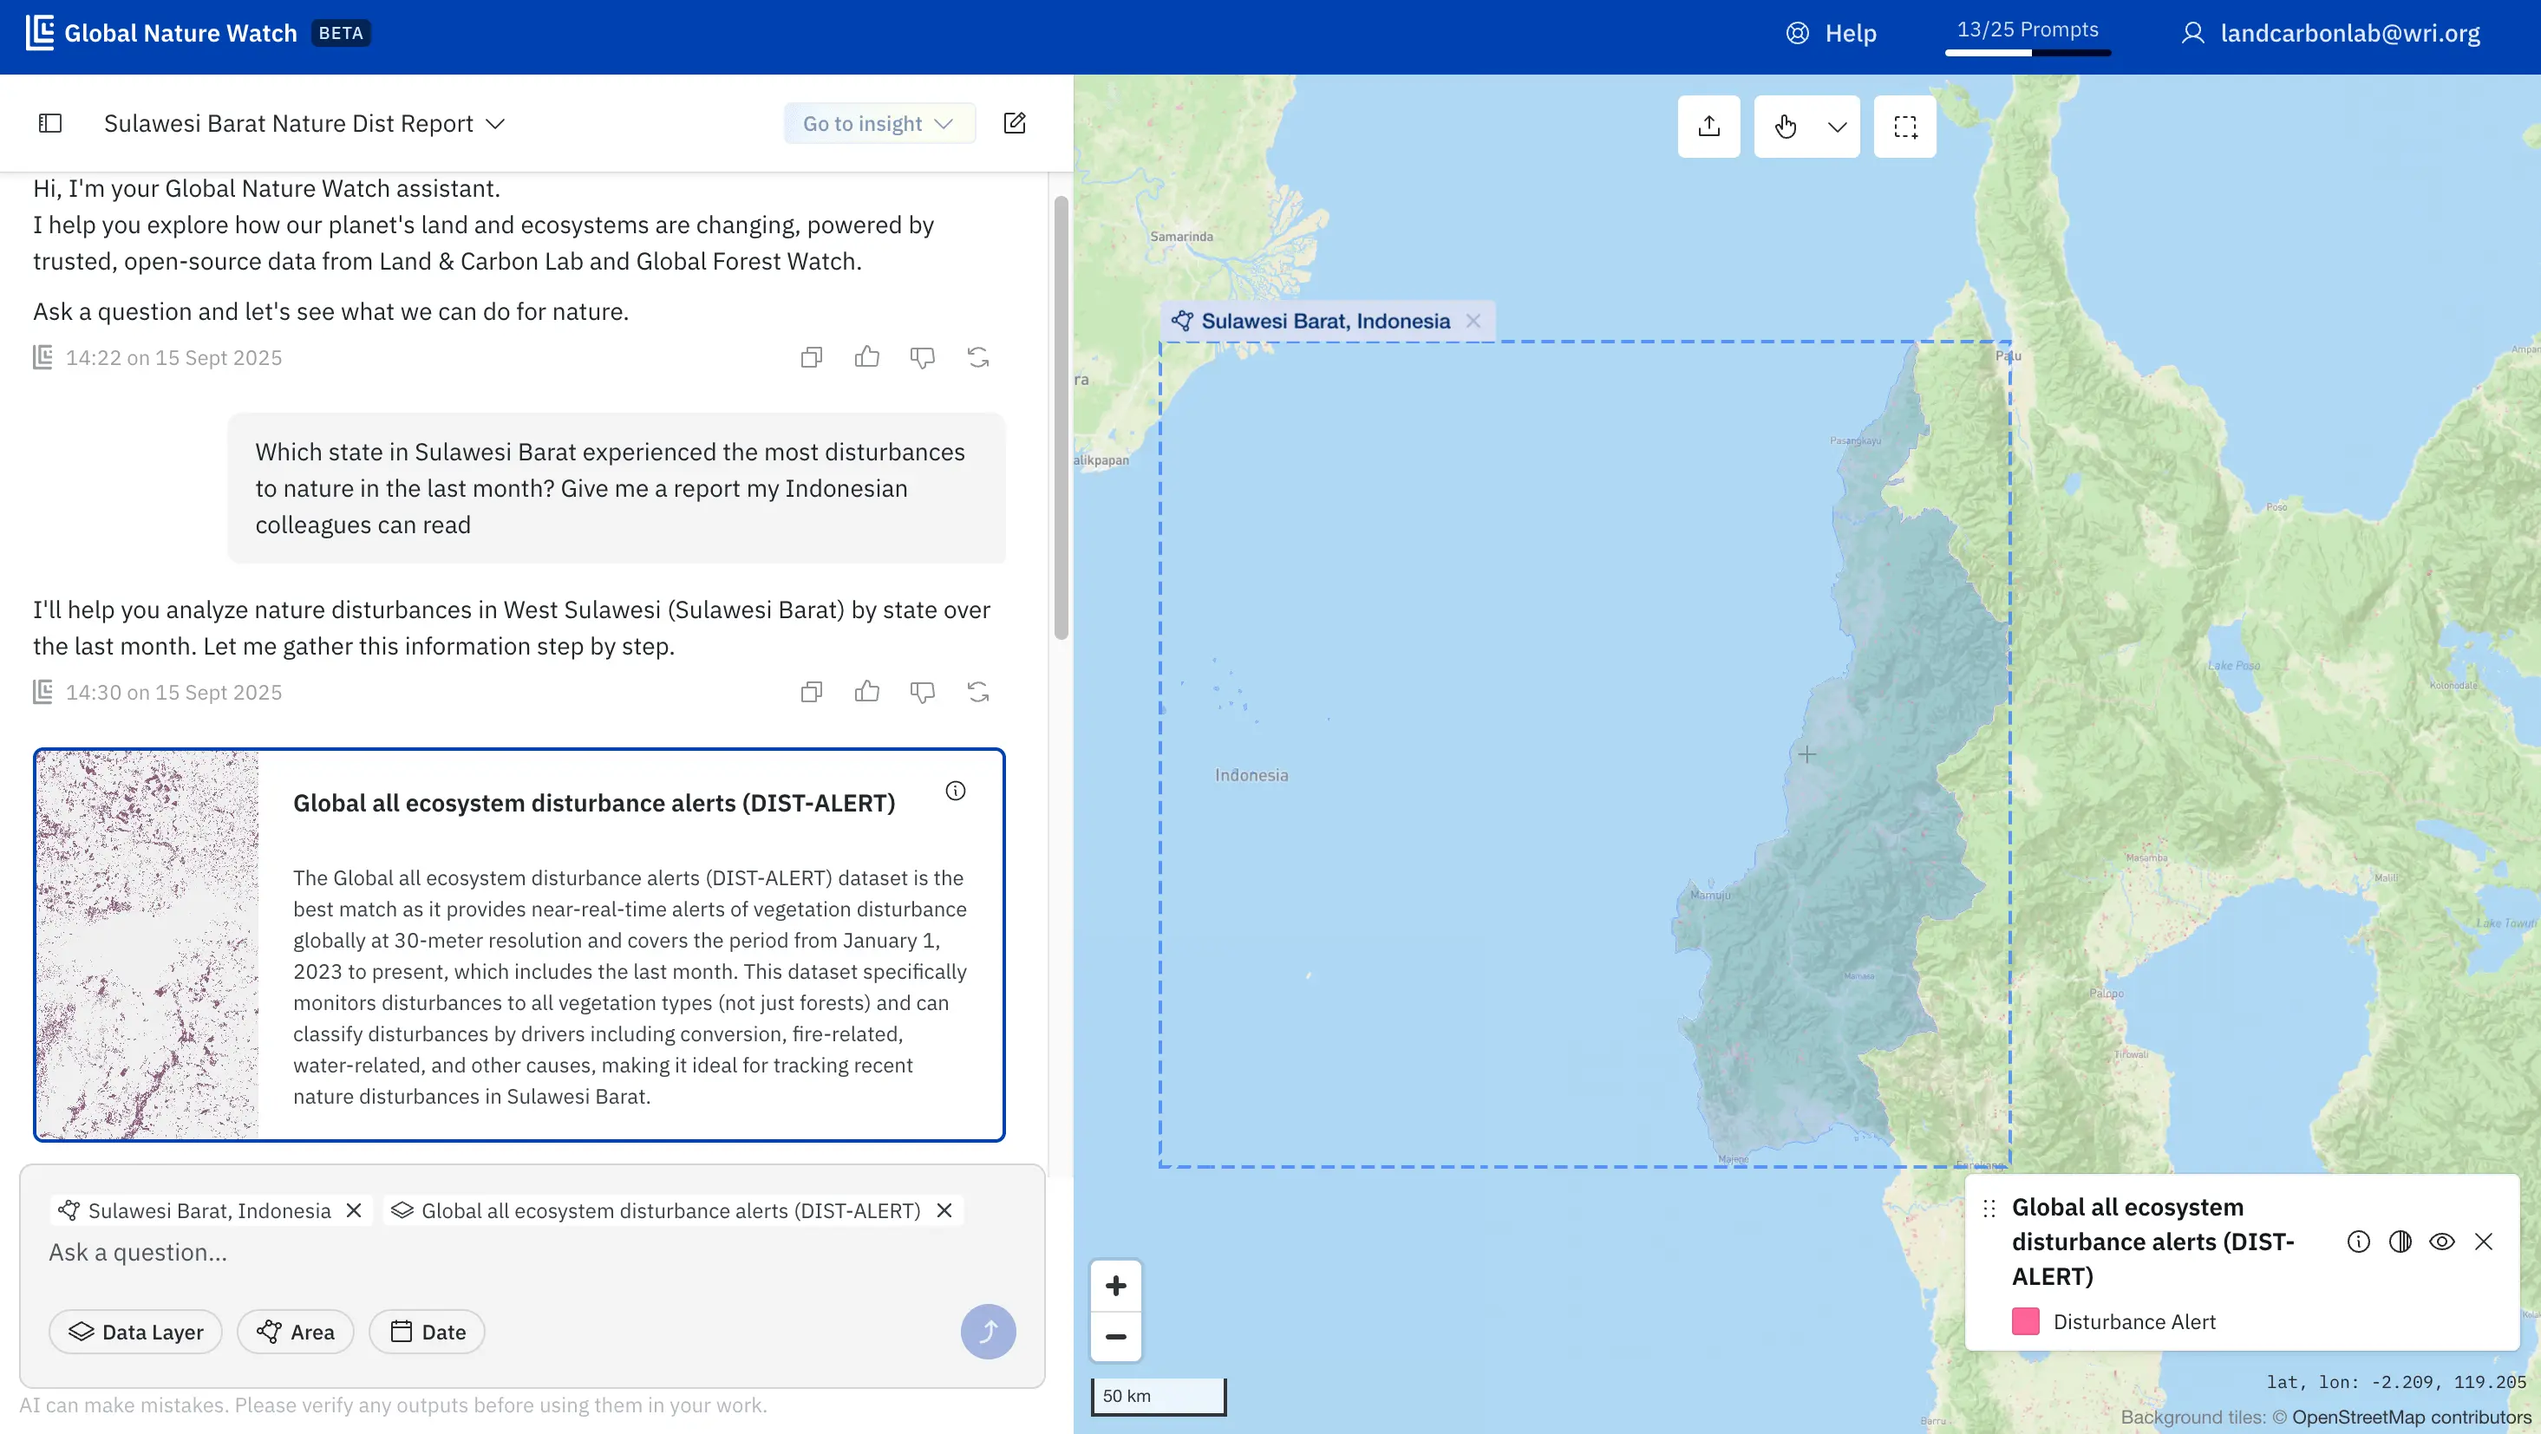
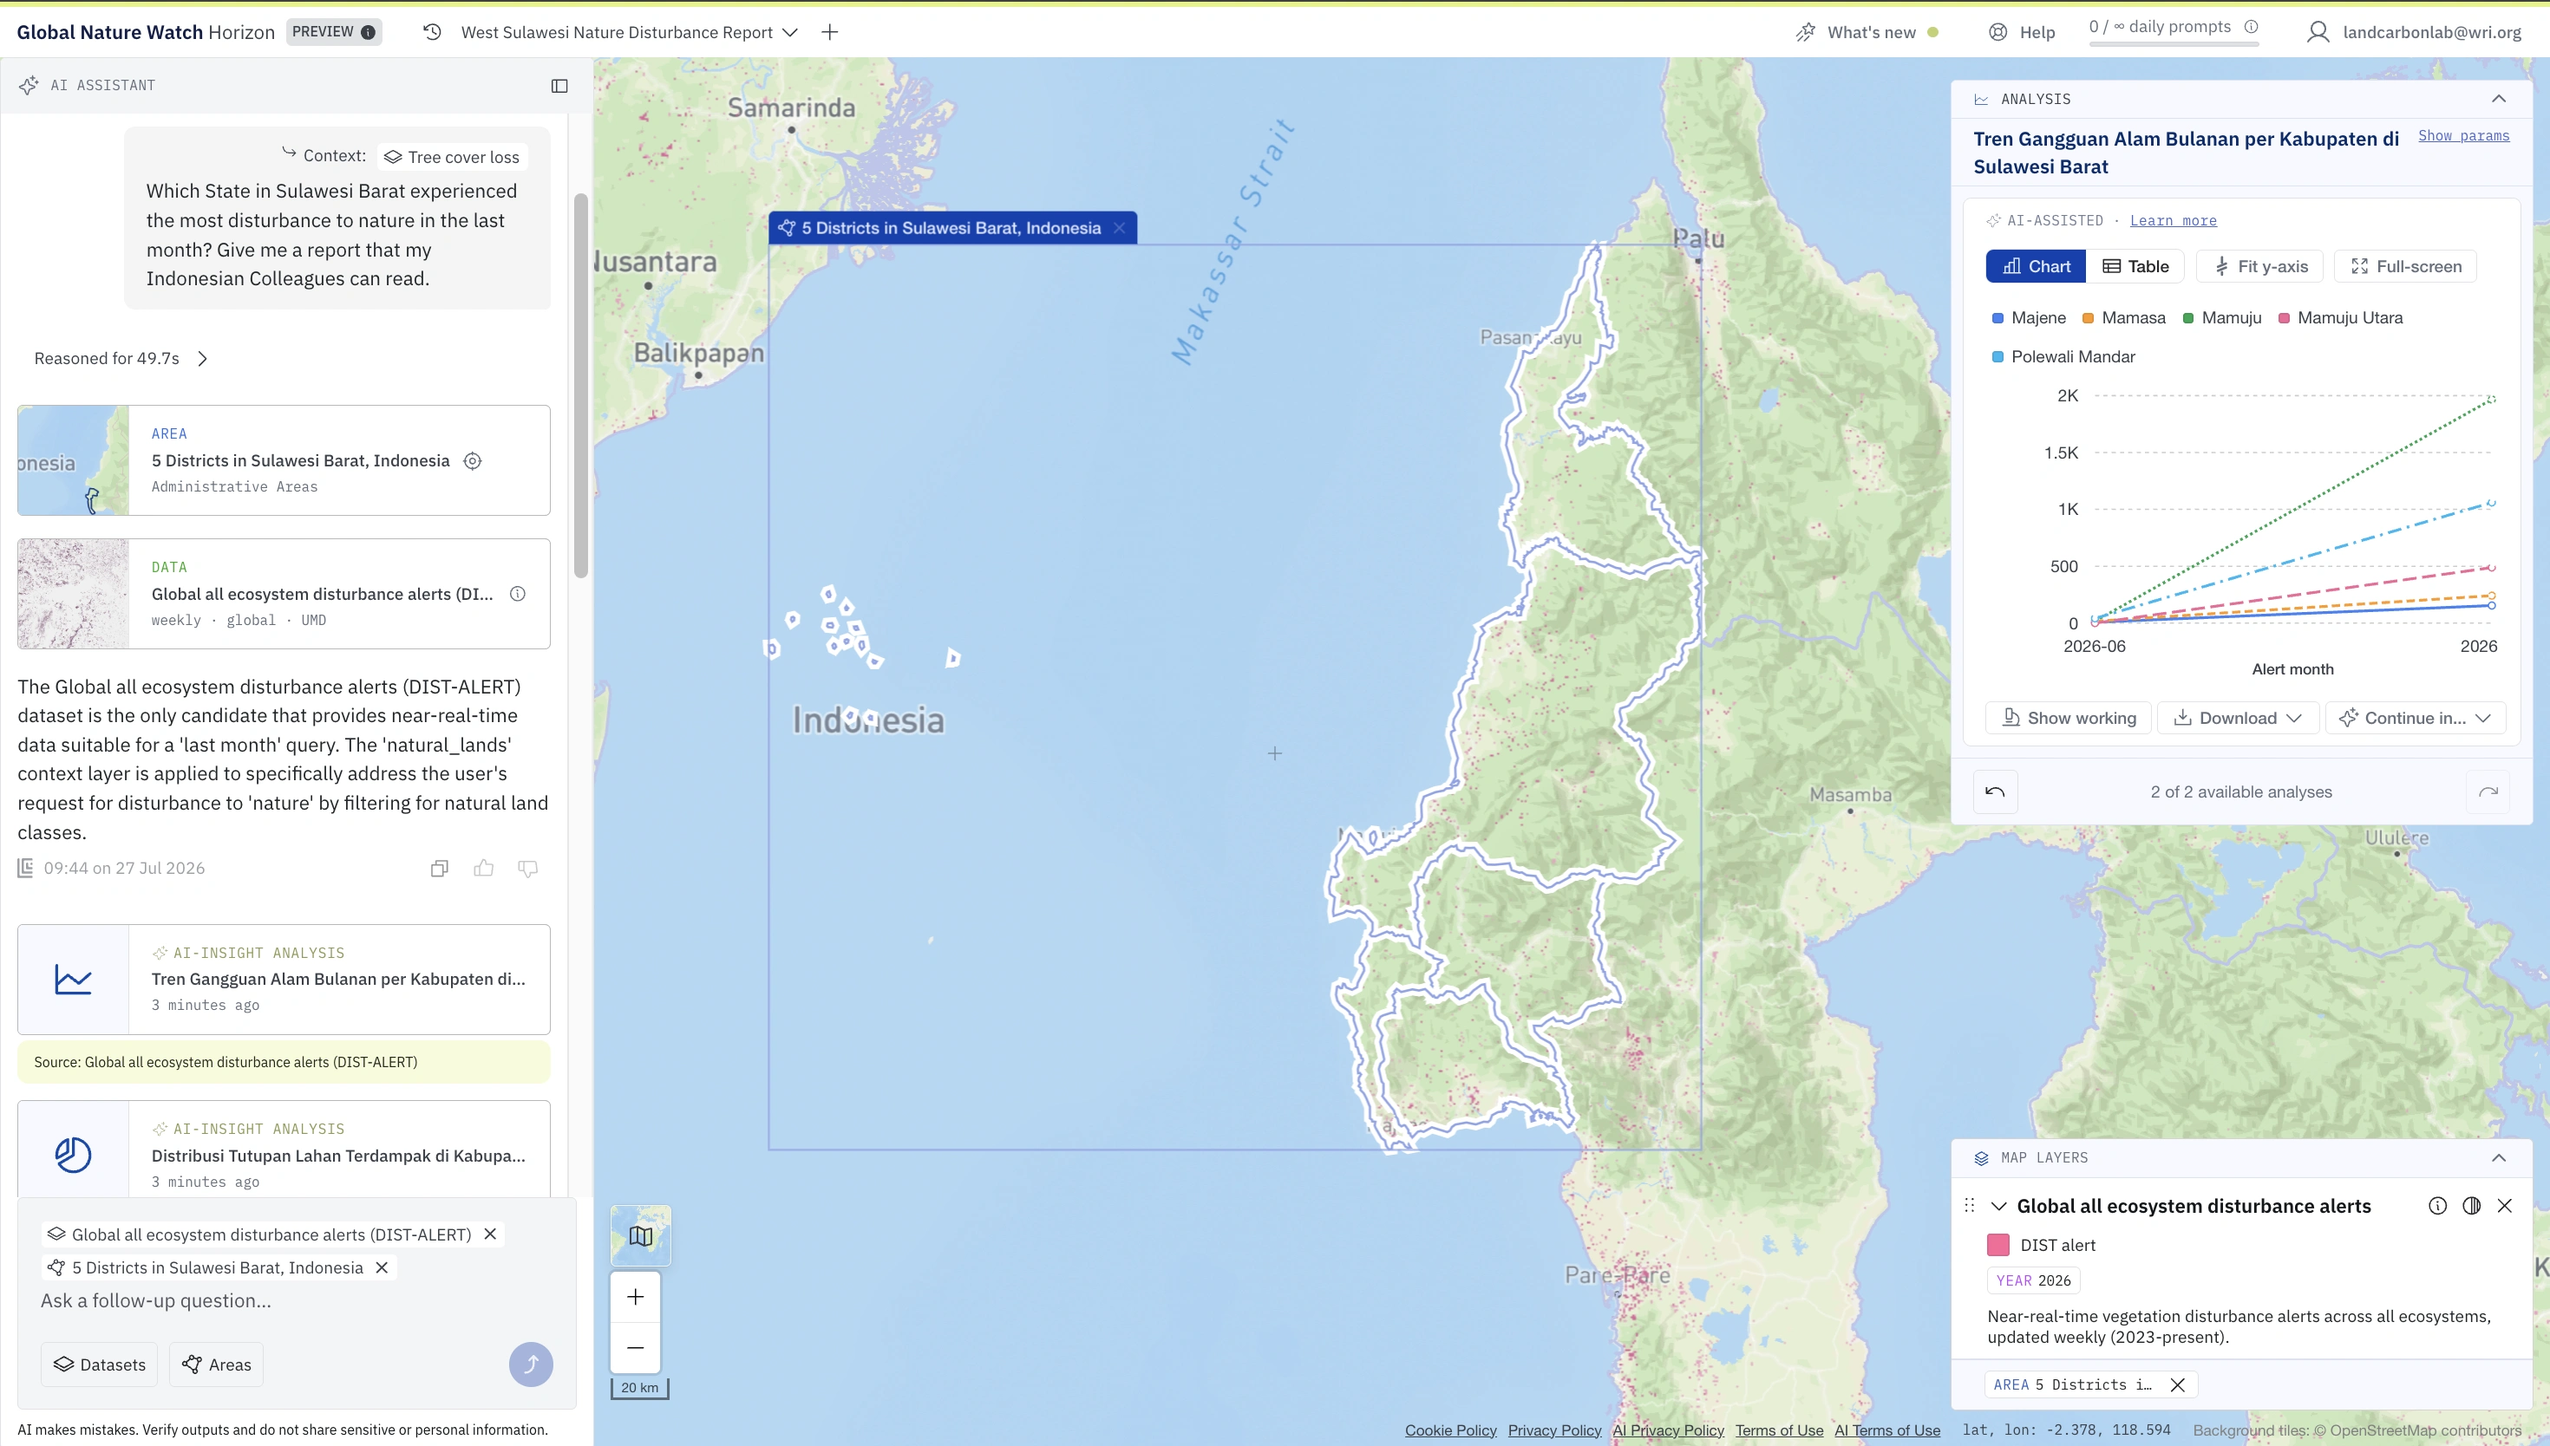
HOTFIX: Rebrand images update

diff --git a/app/(home)/sections/about/FutureOfMonitoring.tsx b/app/(home)/sections/about/FutureOfMonitoring.tsx
@@ -200,7 +200,7 @@ export default function FutureOfMonitoringSection() {
                   transform: "translateX(-50%)",
                 }}
                 src="/integrations.svg"
-                alt="Global Nature Watch integrations"
+                alt="Global Nature Watch Horizon integrations"
                 fill
               />
             </Box>
